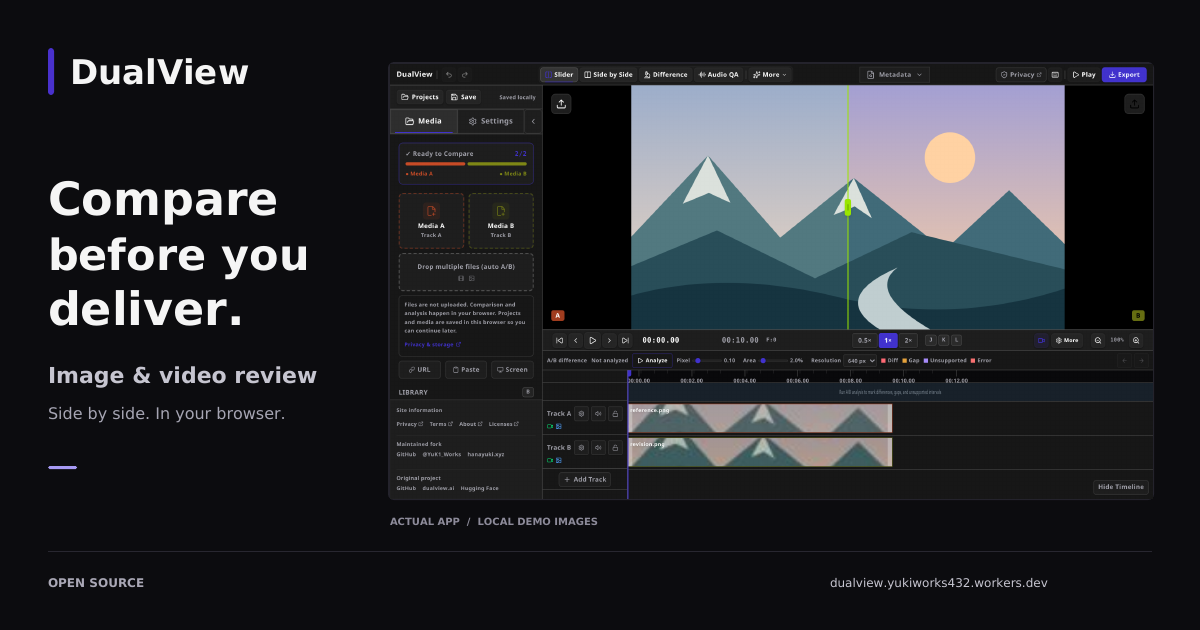
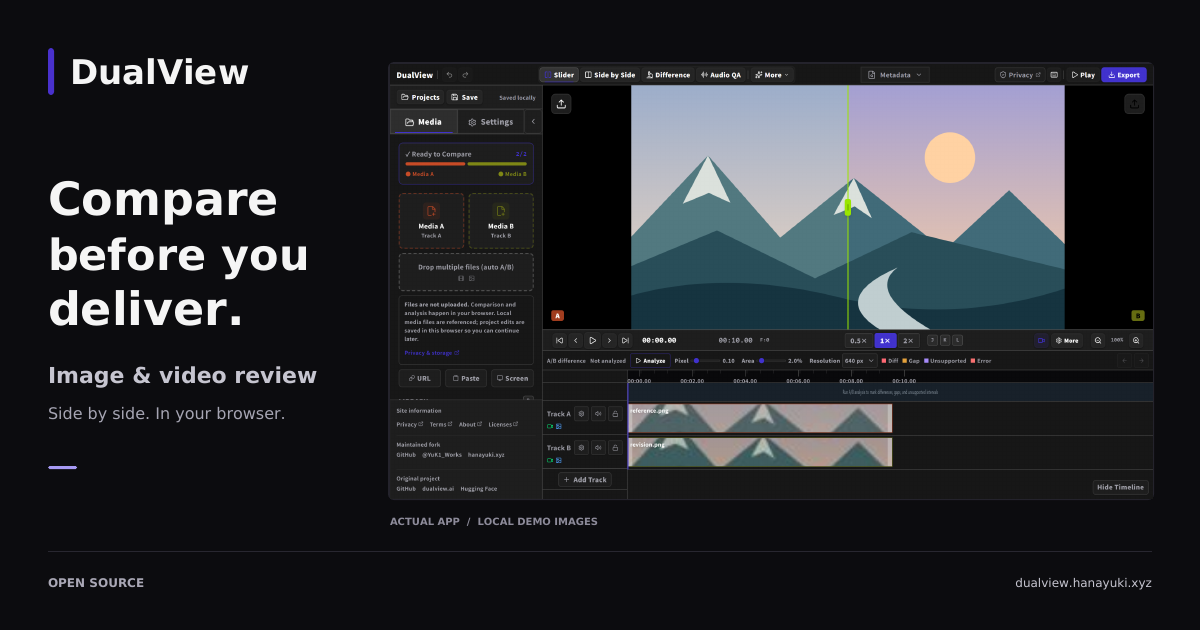
chore: 最新UIのOG画像と公開URLを更新 (#104)

diff --git a/index.html b/index.html
@@ -12,7 +12,7 @@
     <link rel="apple-touch-icon" sizes="180x180" href="/apple-touch-icon.png" />
     <link rel="manifest" href="/site.webmanifest" />
     <meta name="theme-color" content="#ff5722" />
-    <link rel="canonical" href="https://dualview.yukiworks432.workers.dev/" />
+    <link rel="canonical" href="https://dualview.hanayuki.xyz/" />
 
     <title>DualView - Image & Video Delivery Comparison</title>
     <meta
@@ -27,16 +27,13 @@
 
     <!-- Open Graph Tags -->
     <meta property="og:type" content="website" />
-    <meta property="og:url" content="https://dualview.yukiworks432.workers.dev/" />
+    <meta property="og:url" content="https://dualview.hanayuki.xyz/" />
     <meta property="og:title" content="DualView - Side-by-Side Comparison Tool" />
     <meta
       property="og:description"
       content="Compare image and video revisions side-by-side before delivery, with visual difference analysis and embedded video audio QA."
     />
-    <meta
-      property="og:image"
-      content="https://dualview.yukiworks432.workers.dev/og-current-ui.png"
-    />
+    <meta property="og:image" content="https://dualview.hanayuki.xyz/og-current-ui.png" />
     <meta property="og:image:type" content="image/png" />
     <meta
       property="og:image:alt"
@@ -54,10 +51,7 @@
       name="twitter:description"
       content="Compare image and video revisions side-by-side before delivery, with visual difference analysis and embedded video audio QA."
     />
-    <meta
-      name="twitter:image"
-      content="https://dualview.yukiworks432.workers.dev/og-current-ui.png"
-    />
+    <meta name="twitter:image" content="https://dualview.hanayuki.xyz/og-current-ui.png" />
 
     <meta
       name="twitter:image:alt"
@@ -70,7 +64,7 @@
         "@context": "https://schema.org",
         "@type": "SoftwareApplication",
         "name": "DualView",
-        "url": "https://dualview.yukiworks432.workers.dev/",
+        "url": "https://dualview.hanayuki.xyz/",
         "description": "Open source image and video A/B comparison tool for delivery review with embedded video audio QA",
         "applicationCategory": "MultimediaApplication",
         "applicationSubCategory": "Comparison Tool",

diff --git a/scripts/og/compose.py b/scripts/og/compose.py
@@ -55,7 +55,9 @@ text(390, 105, 'ACTUAL APP  /  LOCAL DEMO IMAGES', 10, '#8d8b9a')
 color('#282730')
 c.rect(48, 78, 1104, 1, fill=1, stroke=0)
 text(48, 43, 'OPEN SOURCE', 12, '#aaa8b6')
-text(830, 43, 'dualview.yukiworks432.workers.dev', 12, '#c6c5d0', 'CardRegular')
+color('#c6c5d0')
+c.setFont('CardRegular', 12)
+c.drawRightString(1152, 43, 'dualview.hanayuki.xyz')
 c.showPage()
 c.save()
 subprocess.run(['pdftoppm', '-singlefile', '-scale-to-x', '1200', '-scale-to-y', '630',

diff --git a/README.en.md b/README.en.md
@@ -5,8 +5,8 @@
 <h1 align="center">DualView</h1>
 
 <p align="center">
-  <a href="https://dualview.yukiworks432.workers.dev">
-    <img src="https://img.shields.io/badge/App-dualview.yukiworks432.workers.dev-ff5722?style=for-the-badge" alt="Open DualView">
+  <a href="https://dualview.hanayuki.xyz">
+    <img src="https://img.shields.io/badge/App-dualview.hanayuki.xyz-ff5722?style=for-the-badge" alt="Open DualView">
   </a>
   <a href="https://github.com/YukiWorks432/dualview">
     <img src="https://img.shields.io/badge/GitHub-YukiWorks432-181717?style=for-the-badge&logo=github" alt="YukiWorks432 on GitHub">
@@ -78,18 +78,18 @@
 > continuing that work with modernization, maintenance, and ongoing development while preserving
 > attribution to the original project.
 
-| Role                 | Links                                                                                                                                              |
-| -------------------- | -------------------------------------------------------------------------------------------------------------------------------------------------- |
-| **Original project** | [gokayfem/dualview](https://github.com/gokayfem/dualview) · [dualview.ai](https://dualview.ai)                                                     |
-| **Original creator** | [Gökay Aydoğan](https://github.com/gokayfem) · [@gokayfem](https://x.com/gokayfem)                                                                 |
-| **Maintained fork**  | [dualview.yukiworks432.workers.dev](https://dualview.yukiworks432.workers.dev) · [YukiWorks432/dualview](https://github.com/YukiWorks432/dualview) |
-| **Fork maintainer**  | [花雪 / HanaYuki](https://github.com/YukiWorks432) · [@YuK1_Works](https://x.com/YuK1_Works) · [hanayuki.xyz](https://hanayuki.xyz)                |
+| Role                 | Links                                                                                                                               |
+| -------------------- | ----------------------------------------------------------------------------------------------------------------------------------- |
+| **Original project** | [gokayfem/dualview](https://github.com/gokayfem/dualview) · [dualview.ai](https://dualview.ai)                                      |
+| **Original creator** | [Gökay Aydoğan](https://github.com/gokayfem) · [@gokayfem](https://x.com/gokayfem)                                                  |
+| **Maintained fork**  | [dualview.hanayuki.xyz](https://dualview.hanayuki.xyz) · [YukiWorks432/dualview](https://github.com/YukiWorks432/dualview)          |
+| **Fork maintainer**  | [花雪 / HanaYuki](https://github.com/YukiWorks432) · [@YuK1_Works](https://x.com/YuK1_Works) · [hanayuki.xyz](https://hanayuki.xyz) |
 
 ---
 
 ## Start a comparison
 
-1. [Open the app](https://dualview.yukiworks432.workers.dev) and import your images or videos.
+1. [Open the app](https://dualview.hanayuki.xyz) and import your images or videos.
 2. Place the sources on Track A and Track B. Align clip positions and trim points as needed.
 3. Choose `Slider` to move an A/B boundary or `Side by Side` to view both sources. Play videos
    together, then pause to inspect individual frames.
@@ -99,7 +99,7 @@
 
 Local media is processed in your browser without being uploaded to the operator. URL import connects
 directly to the source URL. Projects are automatically stored in this browser; export a separate backup
-of important work. See [Privacy and data handling](https://dualview.yukiworks432.workers.dev/privacy/).
+of important work. See [Privacy and data handling](https://dualview.hanayuki.xyz/privacy/).
 
 ## Why DualView?
 
@@ -704,10 +704,10 @@ common-resolution analysis can be adjusted independently for this view. The SVG 
 interactive inspection and are not included in screenshot or video exports.
 
 Published site information:
-[Privacy](https://dualview.yukiworks432.workers.dev/privacy/) ·
-[Terms](https://dualview.yukiworks432.workers.dev/terms/) ·
-[About](https://dualview.yukiworks432.workers.dev/about/) ·
-[Licenses](https://dualview.yukiworks432.workers.dev/licenses/)
+[Privacy](https://dualview.hanayuki.xyz/privacy/) ·
+[Terms](https://dualview.hanayuki.xyz/terms/) ·
+[About](https://dualview.hanayuki.xyz/about/) ·
+[Licenses](https://dualview.hanayuki.xyz/licenses/)
 
 ---
 
@@ -858,7 +858,7 @@ change passed its tests.
 ### Deployment
 
 The maintained web app is deployed as Cloudflare Workers Static Assets at
-[dualview.yukiworks432.workers.dev](https://dualview.yukiworks432.workers.dev). There is no
+[dualview.hanayuki.xyz](https://dualview.hanayuki.xyz). There is no
 application Worker or backend API in the deployment path; Wrangler uploads the Vite `dist/` output
 directly.
 
@@ -1027,7 +1027,7 @@ If your work depends on this maintained fork, GitHub's **Cite this repository** 
   title   = {DualView},
   version = {1.0.0},
   year    = {2026},
-  url     = {https://dualview.yukiworks432.workers.dev},
+  url     = {https://dualview.hanayuki.xyz},
   note    = {Maintained fork of https://github.com/gokayfem/dualview}
 }
 ```
@@ -1052,16 +1052,16 @@ DualView's original work remains credited to **Gökay Aydoğan** and the
 ## 📄 License
 
 MIT License - see [LICENSE](LICENSE) for details. Browser-distributed dependency notices and
-source links are published on the [Licenses page](https://dualview.yukiworks432.workers.dev/licenses/).
+source links are published on the [Licenses page](https://dualview.hanayuki.xyz/licenses/).
 
 Contributions are welcome on this fork. Use [Issues](https://github.com/YukiWorks432/dualview/issues)
 for bug reports and proposals, or [Pull requests](https://github.com/YukiWorks432/dualview/pulls) for
 contributions. For private inquiries or personal information, use the
 [maintainer's contact page](https://hanayuki.xyz/contact/).
 
-[Privacy](https://dualview.yukiworks432.workers.dev/privacy/) ·
-[Terms](https://dualview.yukiworks432.workers.dev/terms/) ·
-[About](https://dualview.yukiworks432.workers.dev/about/)
+[Privacy](https://dualview.hanayuki.xyz/privacy/) ·
+[Terms](https://dualview.hanayuki.xyz/terms/) ·
+[About](https://dualview.hanayuki.xyz/about/)
 
 ---
 

diff --git a/scripts/og/README.md b/scripts/og/README.md
@@ -38,8 +38,10 @@ requests are permitted. Images, raw 2880×1640 capture, PDF, and 600×315 inspec
 preview are regenerated under ignored `tmp/pdfs/`.
 
 The PDF keeps a 48 px safe margin, a large headline, and the current violet/dark
-visual language. The final asset is `public/og-current-ui.png`; both image metadata
-URLs in `index.html` use that new path to refresh old social caches. The legacy
+visual language. The footer is right-aligned and shows `dualview.hanayuki.xyz`,
+matching the public URL in the page metadata and project links. The final asset is
+`public/og-current-ui.png`; OG and X metadata in `index.html` reference it at
+`https://dualview.hanayuki.xyz/og-current-ui.png`. The legacy
 `og-image.png` remains available for already-shared links. The screenshot shows
 image comparison; the broader image/video wording describes supported product
 capabilities, not a claim that the fixture is video.

diff --git a/docs/development.md b/docs/development.md
@@ -225,7 +225,7 @@ this fork's maintainer. GitHub's `Cite this repository` reads that metadata. The
   title   = {DualView},
   version = {1.0.0},
   year    = {2026},
-  url     = {https://dualview.yukiworks432.workers.dev},
+  url     = {https://dualview.hanayuki.xyz},
   note    = {Maintained fork of https://github.com/gokayfem/dualview}
 }
 ```
